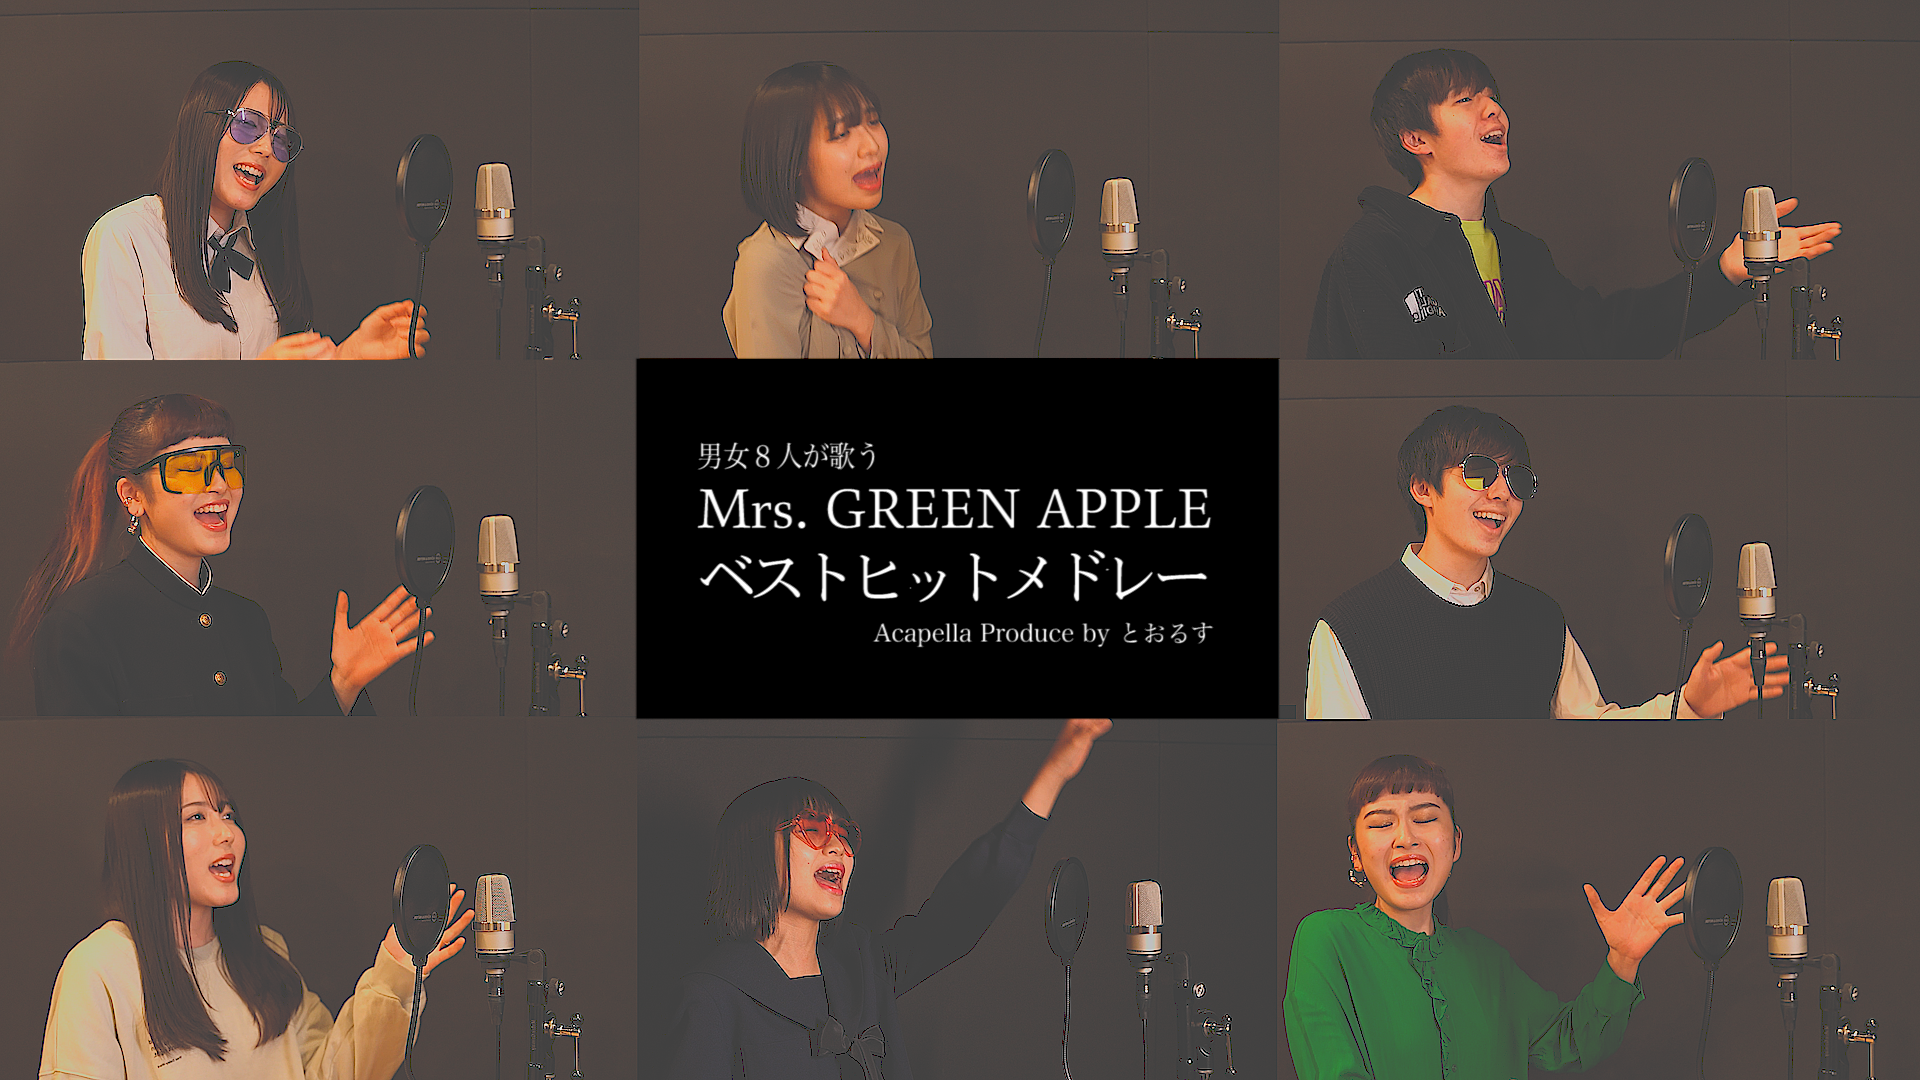
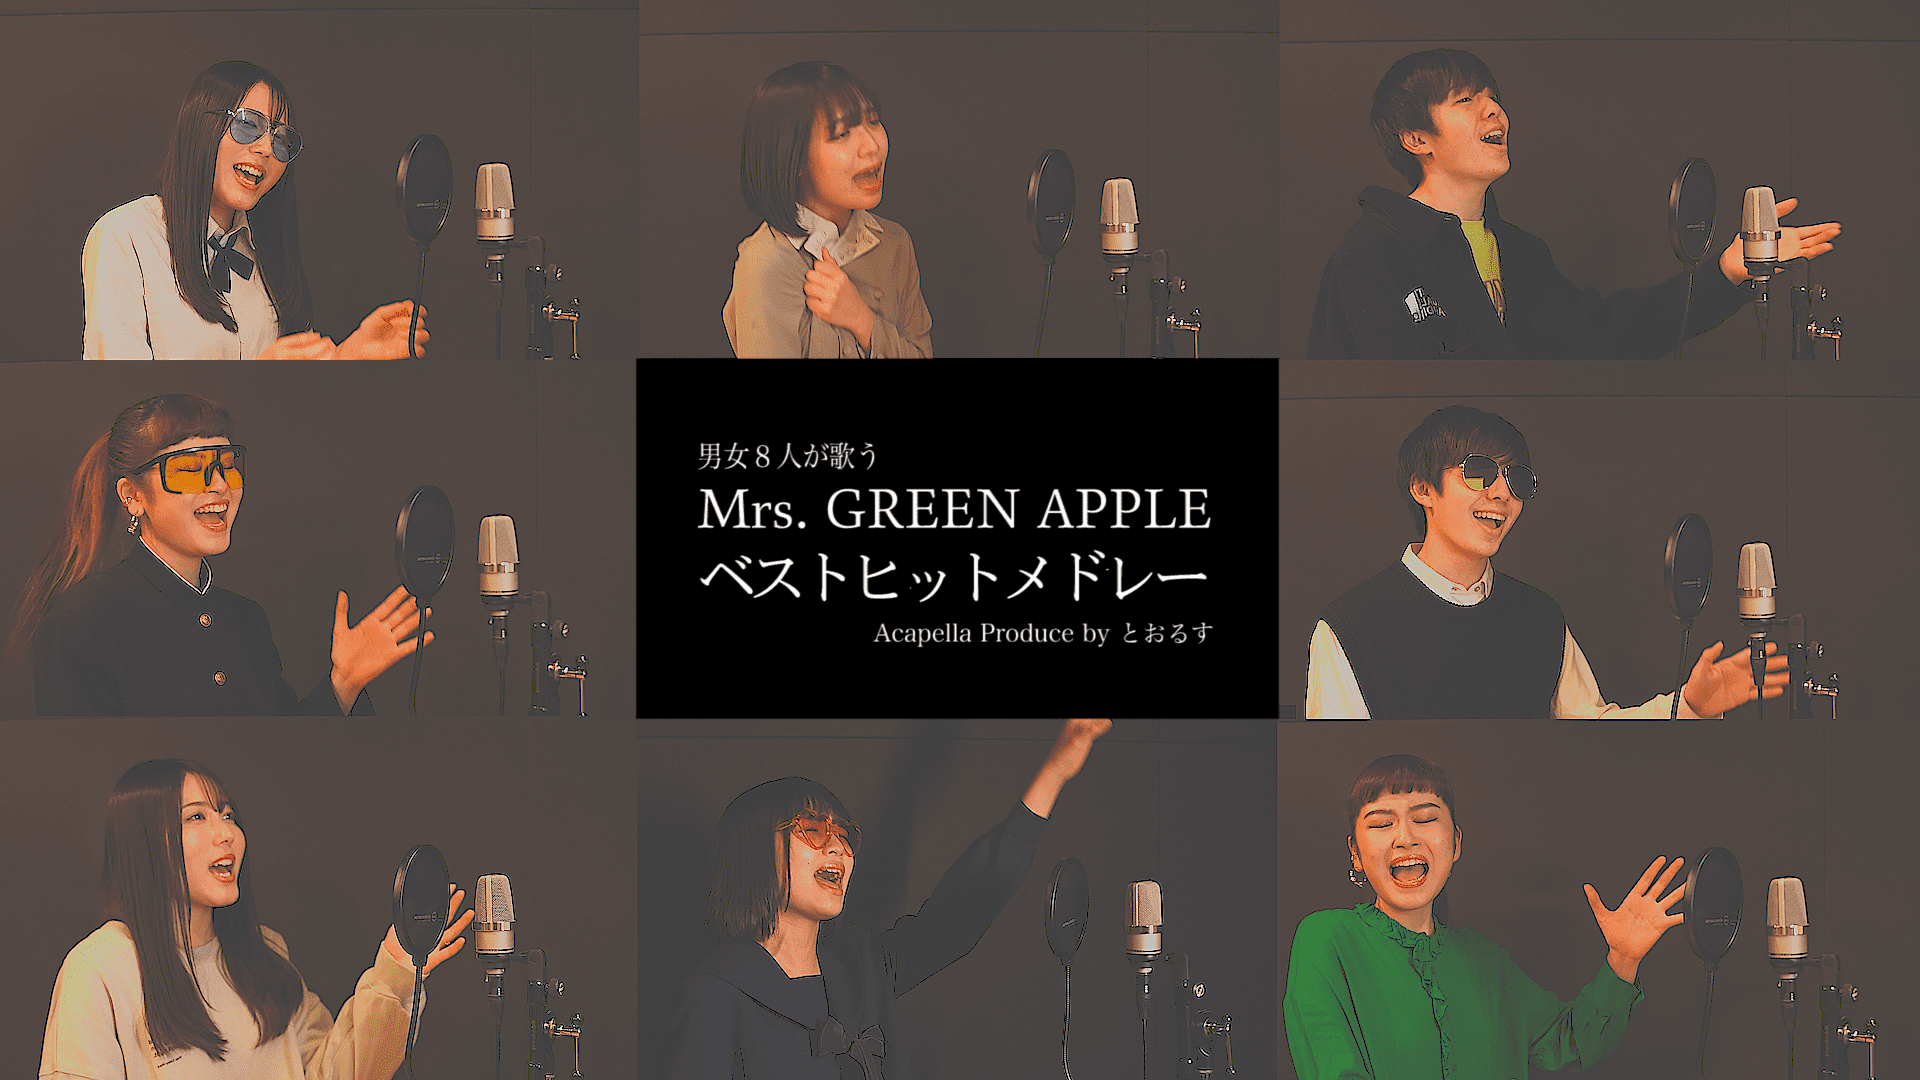
圧縮版に差し替え

diff --git a/src/views/Profile.vue b/src/views/Profile.vue
@@ -1,7 +1,7 @@
 <template>
   <HeaderItem />
   <main class="pl-20 md:pr-0 pr-2">
-    <div class="md:px-28 px-0 md:pb-36 fade opacity-0">
+    <div class="md:px-28 px-0 md:pb-36">
       <h1
         class="md:text-4xl text-2xl text-center md:pt-64 pt-32 md:pb-44 pb-10"
       >
@@ -26,14 +26,14 @@
         </div>
       </div>
     </div>
-    <div class="md:block hidden fade opacity-0">
+    <div class="md:block hidden">
       <img class="mx-auto w-24" src="../assets/img/200-200.png" alt="logo" />
     </div>
-    <div class="md:hidden block fade opacity-0">
+    <div class="md:hidden block">
       <div class="text-3xl md:pt-0 pt-2">Tomoaki Sato</div>
       <div class="text-right">video creator</div>
     </div>
-    <div class="md:px-28 px-0 py-10 fade opacity-0">
+    <div class="md:px-28 px-0 py-10">
       <h3 class="text-2xl pb-5 md:block hidden">CAREER</h3>
       <dl
         v-for="item in careerItems"
@@ -46,13 +46,13 @@
         <dd class="sm:text-xl text-xs w-3/5">{{ item.contents }}</dd>
       </dl>
     </div>
-    <div class="md:px-28 px-0 md:py-10 fade opacity-0">
+    <div class="md:px-28 px-0 md:py-10">
       <h3 class="text-2xl pb-5 md:block hidden">SKILLS</h3>
       <p class="md:text-xl text-sm">
         Adobe Premiere Pro / Adobe Photoshop / Wondershare Filmora 9
       </p>
     </div>
-    <div class="md:pl-28 pl-0 py-10 fade opacity-0">
+    <div class="md:pl-28 pl-0 py-10">
       <h3 class="catch md:text-2xl text-xl md:pb-5 pb-2">RECOMMENDATIONS</h3>
       <div class="md:flex md:flex-wrap">
         <a
@@ -65,7 +65,7 @@
           :key="item.name"
         >
           <div class="w-1/6">
-            <img :class="item.imgclass" :src="item.img" alt="icon" />
+            <img :src="item.img" alt="icon" />
           </div>
           <div class="w-9/12">
             <p class="p-2 md:text-base text-xs">{{ item.name }}</p>
@@ -76,7 +76,7 @@
         </a>
       </div>
     </div>
-    <div class="md:hidden block pb-6 fade opacity-0">
+    <div class="md:hidden block pb-6">
       <h3 class="catch md:text-3xl text-xl pb-5">GREETING</h3>
       <p class="text-xs bg-bgGray p-1">
         感動を、もっと近くに。<br /><br />
@@ -93,7 +93,6 @@
 <script>
 import HeaderItem from "@/components/HeaderItem.vue";
 import FooterItem from "@/components/FooterItem.vue";
-import $ from "jquery";
 export default {
   data() {
     return {
@@ -126,7 +125,6 @@ export default {
           img: require("../assets/img/torusu-sub-icon.png"),
           name: "とおるすアカペラ制作中",
           href: "https://www.youtube.com/channel/UCmcjgVVMtUczKv0VQVlQG5w",
-          imgclass: "w-11/12",
           class: "md:ml-2 ml-0",
         },
         {
@@ -137,17 +135,6 @@ export default {
         },
       ],
     };
-  },
-  mounted: function() {
-    $(window).on("scroll", function() {
-      var scroll_top = $(window).scrollTop();
-      $(".fade").each(function() {
-        var offset_top = $(this).offset().top - $(this).height();
-        if (scroll_top > offset_top) {
-          $(this).addClass("fadeUp");
-        }
-      });
-    });
   },
   components: {
     HeaderItem,

diff --git a/src/views/Top.vue b/src/views/Top.vue
@@ -2,7 +2,7 @@
   <div>
     <HeaderItem />
     <main>
-      <div class="relative fade opacity-0">
+      <div class="relative">
         <video class="hidden md:block" :src="mainVideo" autoplay muted></video>
         <video
           class="md:hidden pt-20 w-full"
@@ -12,7 +12,7 @@
           playsinline
         ></video>
       </div>
-      <div class="md:px-24 pl-24 pt-4 fade opacity-0">
+      <div class="md:px-24 pl-24 pt-4">
         <h2
           class="catch md:text-4xl text-2xl text-left md:pt-20 pt-20 md:pb-10 pb-2 md:pr-0 pr-2"
         >
@@ -61,7 +61,7 @@
           </div>
         </div>
       </div>
-      <div class="md:px-24 pl-20 md:pb-36 pb-20 fade opacity-0">
+      <div class="md:px-24 pl-20 md:pb-36 pb-20">
         <h2
           class="catch md:text-4xl text-2xl text-left md:pt-32 pt-20 md:pb-8 pb-5 md:pr-0 pr-2"
         >
@@ -97,7 +97,6 @@
 <script>
 import HeaderItem from "@/components/HeaderItem.vue";
 import FooterItem from "@/components/FooterItem.vue";
-import $ from "jquery";
 export default {
   data() {
     return {
@@ -158,17 +157,6 @@ export default {
       ],
     };
   },
-  mounted: function() {
-    $(window).on("scroll", function() {
-      var scroll_top = $(window).scrollTop();
-      $(".fade").each(function() {
-        var offset_top = $(this).offset().top - $(this).height();
-        if (scroll_top > offset_top) {
-          $(this).addClass("fadeUp");
-        }
-      });
-    });
-  },
   components: {
     HeaderItem,
     FooterItem,
@@ -205,27 +193,6 @@ export default {
   .catch:before,
   .catch:after {
     display: none;
-  }
-}
-</style>
-
-<style>
-.fadeUp {
-  animation-name: fadeUpAnime;
-  animation-duration: 1s;
-  animation-fill-mode: forwards;
-  opacity: 0;
-}
-
-@keyframes fadeUpAnime {
-  from {
-    opacity: 0;
-    transform: translateY(100px);
-  }
-
-  to {
-    opacity: 1;
-    transform: translateY(0);
   }
 }
 </style>

diff --git a/src/views/Works.vue b/src/views/Works.vue
@@ -1,7 +1,7 @@
 <template>
   <HeaderItem />
   <main>
-    <div class="md:px-32 md:pb-56 pl-20 fade opacity-0">
+    <div class="md:px-32 md:pb-56 pl-20">
       <h2
         class="catch md:text-4xl text-2xl text-center md:pt-40 pt-28 md:pb-20 pb-14"
       >
@@ -46,7 +46,6 @@
 <script>
 import HeaderItem from "@/components/HeaderItem.vue";
 import FooterItem from "@/components/FooterItem.vue";
-import $ from "jquery";
 export default {
   data() {
     return {
@@ -137,22 +136,9 @@ export default {
       ],
     };
   },
-  mounted: function() {
-    $(window).on("scroll", function() {
-      var scroll_top = $(window).scrollTop();
-      $(".fade").each(function() {
-        var offset_top = $(this).offset().top - $(this).height();
-        if (scroll_top > offset_top) {
-          $(this).addClass("fadeUp");
-        }
-      });
-    });
-  },
   components: {
     HeaderItem,
     FooterItem,
   },
 };
 </script>
-
-<style></style>

diff --git a/src/main.js b/src/main.js
@@ -2,10 +2,6 @@ import { createApp } from "vue";
 import App from "./App.vue";
 import router from "./router";
 import "@/assets/style.css";
-import jQuery from "jquery";
-global.jquery = jQuery;
-global.$ = jQuery;
-window.$ = window.jQuery = require("jquery");
 
 createApp(App)
   .use(router)
